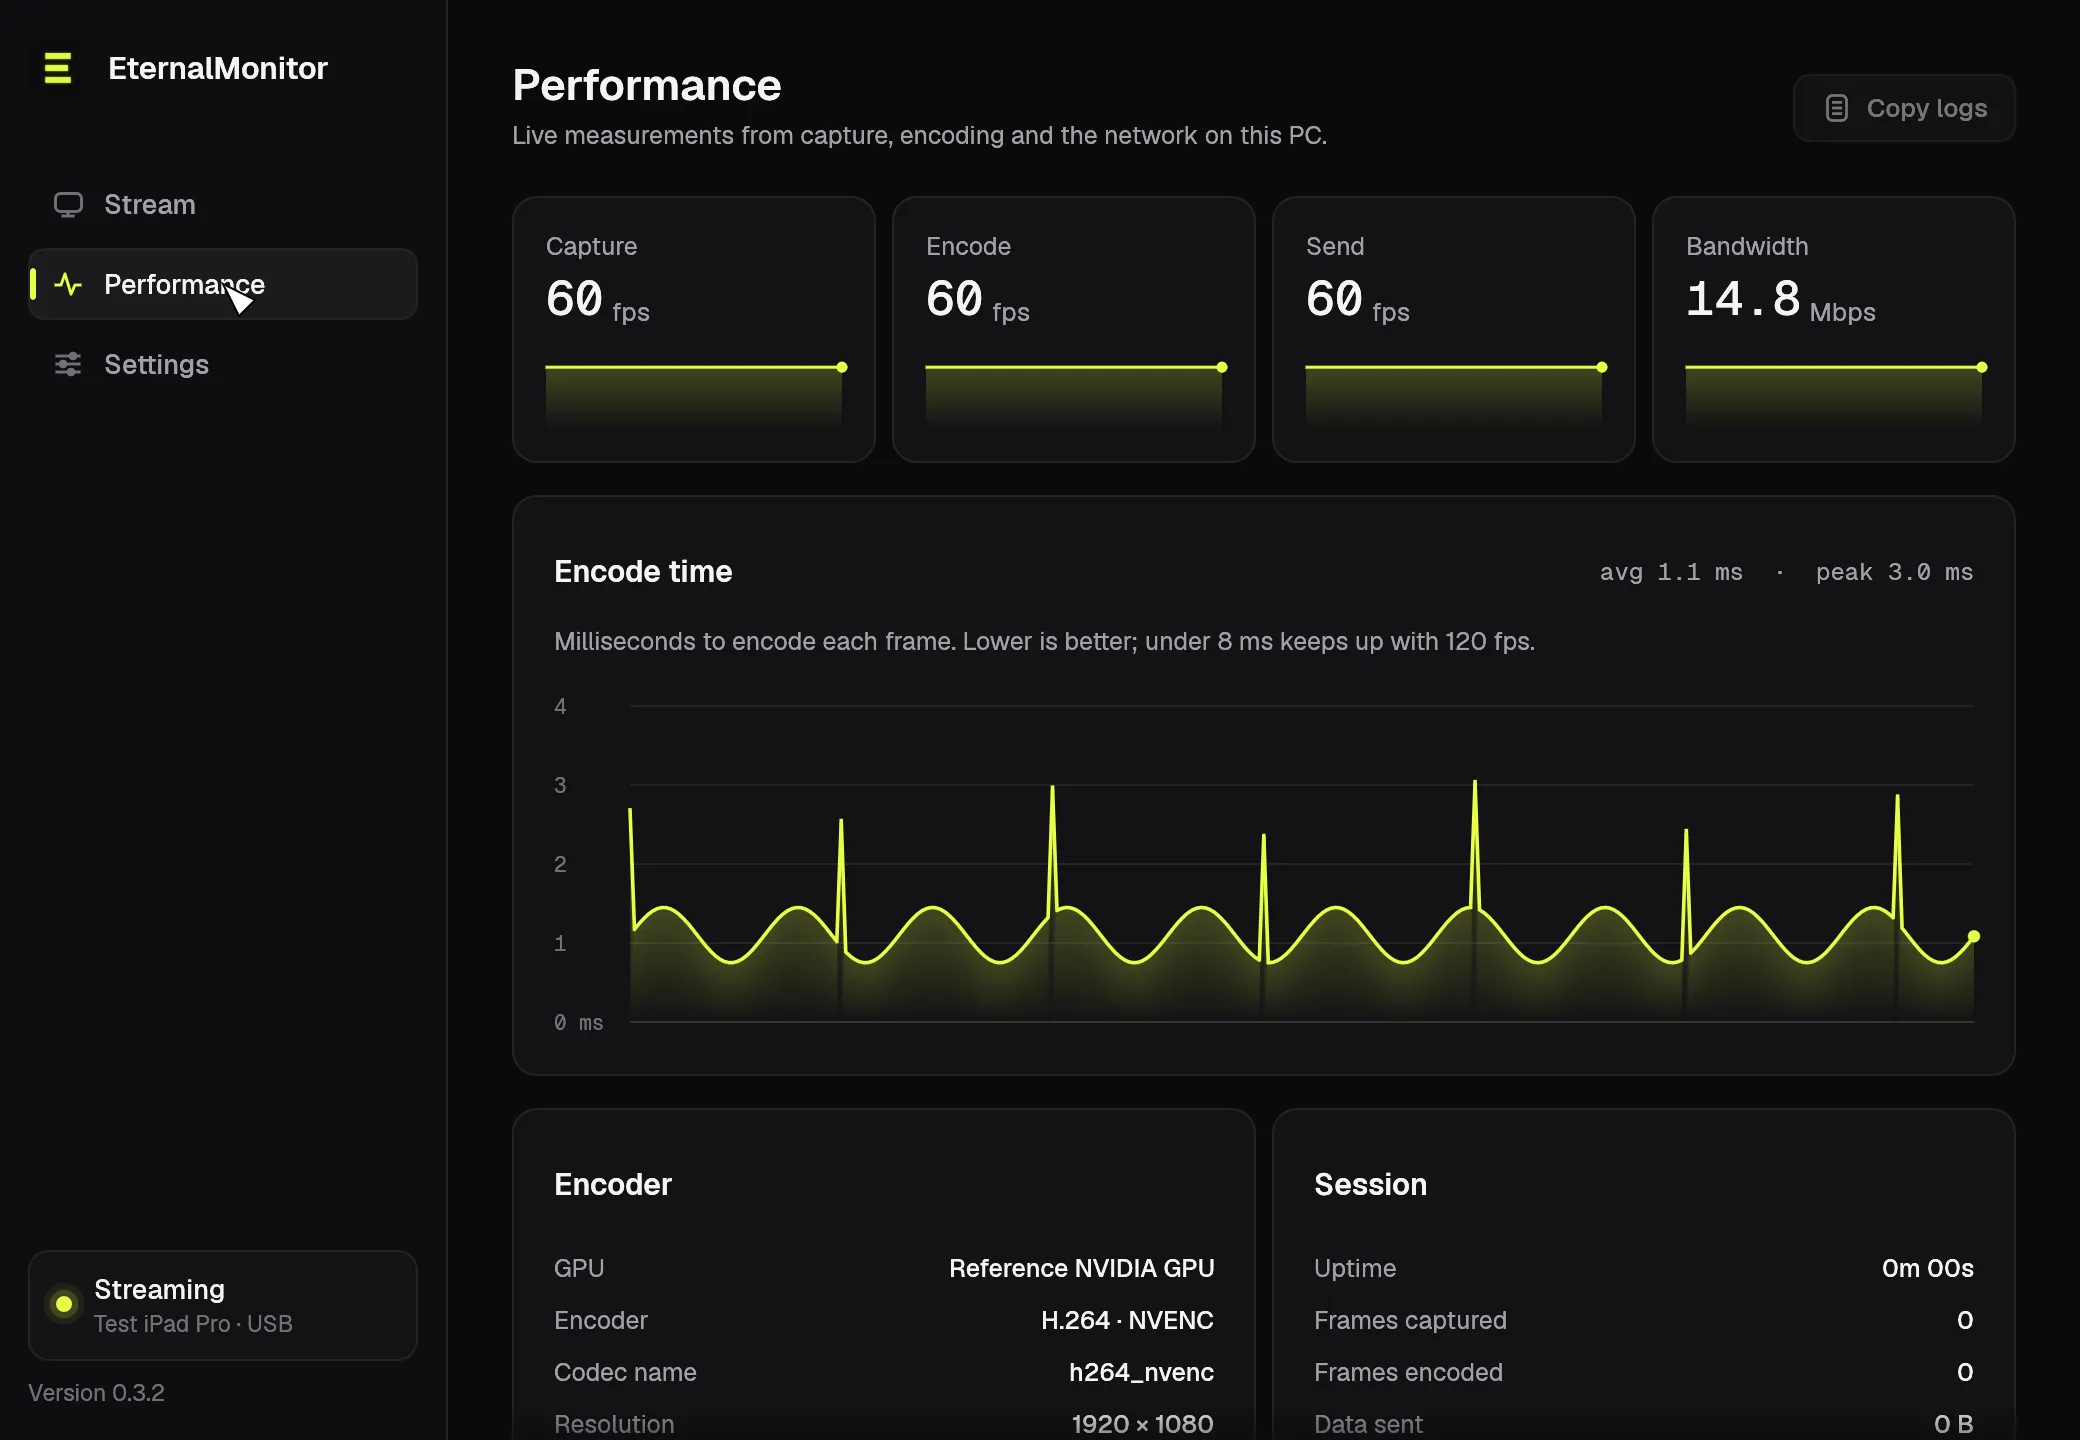
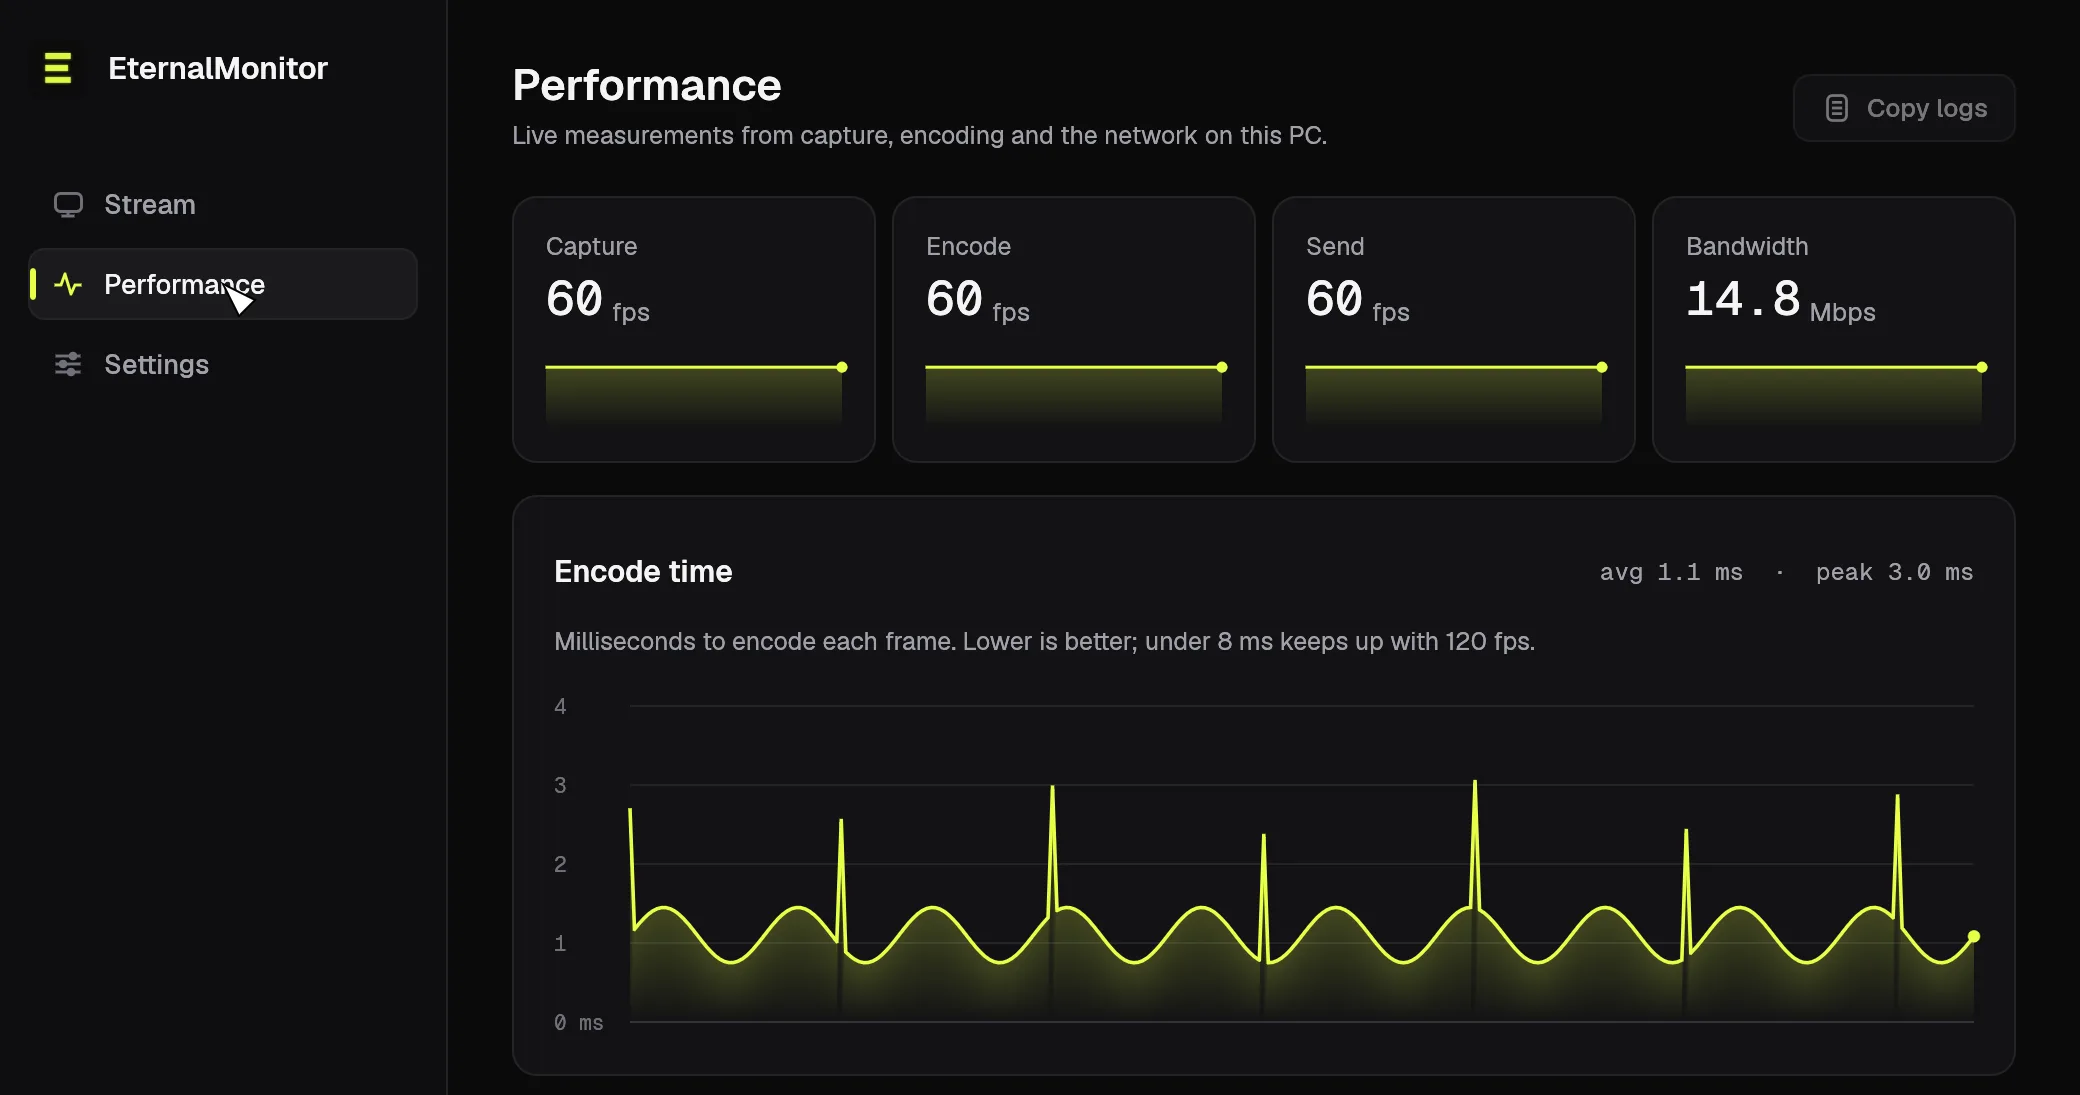
Crop the Windows screenshots to one consistent state
The test fixture behind the Windows renders has an iPad streaming over USB, which showed through: Second screen said Waiting for an iPad above a USB row saying an iPad is streaming, the QR dialog sat over a page already streaming with sample latency, and the Performance page's Session card counted zero frames under 60 fps. Second screen and Performance are cropped above those rows, and the QR dialog is shown on its own.

diff --git a/docs/index.html b/docs/index.html
@@ -128,7 +128,7 @@
                 <span class="t"><img src="assets/icon.png" alt="" width="14" height="14">EternalMonitor</span>
                 <span class="wc"><svg viewBox="0 0 10 10" stroke="currentColor" stroke-width="1"><path d="M1 5h8"/></svg><svg viewBox="0 0 10 10" fill="none" stroke="currentColor" stroke-width="1"><rect x="1.5" y="1.5" width="7" height="7"/></svg><svg viewBox="0 0 10 10" stroke="currentColor" stroke-width="1"><path d="M1.5 1.5l7 7M8.5 1.5l-7 7"/></svg></span>
               </div>
-              <img src="assets/host-second-screen.webp" srcset="assets/host-second-screen.webp 1200w, assets/host-second-screen@2x.webp 2080w" sizes="(max-width: 860px) 100vw, 540px" width="2080" height="1440" loading="lazy" decoding="async" alt="The Windows app's Stream page with Second screen selected under Use the iPad as. It says the iPad becomes an extra screen next to your main one as soon as it connects, and shows the PC's address and a six-digit pairing code.">
+              <img src="assets/host-second-screen.webp" srcset="assets/host-second-screen.webp 1040w, assets/host-second-screen@2x.webp 2080w" sizes="(max-width: 860px) 100vw, 540px" width="2080" height="1000" loading="lazy" decoding="async" alt="The Windows app's Stream page with Second screen selected under Use the iPad as. It says the iPad becomes an extra screen next to your main one as soon as it connects, and shows the PC's address and a six-digit pairing code.">
             </div>
             <p class="caption">The Windows app. The address and pairing code are examples.</p>
           </div>
@@ -156,12 +156,8 @@
           </div>
           <div class="feature-media">
             <div class="pair">
-              <div class="pc-window">
-                <div class="pc-titlebar" aria-hidden="true">
-                  <span class="t"><img src="assets/icon.png" alt="" width="14" height="14">EternalMonitor</span>
-                  <span class="wc"><svg viewBox="0 0 10 10" stroke="currentColor" stroke-width="1"><path d="M1 5h8"/></svg><svg viewBox="0 0 10 10" fill="none" stroke="currentColor" stroke-width="1"><rect x="1.5" y="1.5" width="7" height="7"/></svg><svg viewBox="0 0 10 10" stroke="currentColor" stroke-width="1"><path d="M1.5 1.5l7 7M8.5 1.5l-7 7"/></svg></span>
-                </div>
-                <img src="assets/host-qr.webp" srcset="assets/host-qr.webp 1200w, assets/host-qr@2x.webp 2080w" sizes="(max-width: 860px) 60vw, 330px" width="2080" height="1440" loading="lazy" decoding="async" alt="The Windows app's Scan to connect dialog, with a QR code and the PC's address under it.">
+              <div class="dialog-shot">
+                <img src="assets/host-qr.webp" srcset="assets/host-qr.webp 374w, assets/host-qr@2x.webp 748w" sizes="(max-width: 860px) 50vw, 280px" width="748" height="1050" loading="lazy" decoding="async" alt="The Windows app's Scan to connect dialog, with a QR code and the PC's address under it.">
               </div>
               <div class="tablet portrait">
                 <div class="screen">
@@ -183,7 +179,7 @@
                 <span class="t"><img src="assets/icon.png" alt="" width="14" height="14">EternalMonitor</span>
                 <span class="wc"><svg viewBox="0 0 10 10" stroke="currentColor" stroke-width="1"><path d="M1 5h8"/></svg><svg viewBox="0 0 10 10" fill="none" stroke="currentColor" stroke-width="1"><rect x="1.5" y="1.5" width="7" height="7"/></svg><svg viewBox="0 0 10 10" stroke="currentColor" stroke-width="1"><path d="M1.5 1.5l7 7M8.5 1.5l-7 7"/></svg></span>
               </div>
-              <img src="assets/host-performance.webp" srcset="assets/host-performance.webp 1200w, assets/host-performance@2x.webp 2080w" sizes="(max-width: 860px) 100vw, 540px" width="2080" height="1440" loading="lazy" decoding="async" alt="The Windows app's Performance page: capture, encode and send rates, bandwidth, and a chart of encode time per frame.">
+              <img src="assets/host-performance.webp" srcset="assets/host-performance.webp 1040w, assets/host-performance@2x.webp 2080w" sizes="(max-width: 860px) 100vw, 540px" width="2080" height="1095" loading="lazy" decoding="async" alt="The Windows app's Performance page: capture, encode and send rates, bandwidth, and a chart of encode time per frame.">
             </div>
             <p class="caption">The Windows app's Performance page, filled in with example numbers.</p>
           </div>

diff --git a/docs/style.css b/docs/style.css
@@ -454,9 +454,16 @@ small { font-size: 0.875rem; }
 
 .pair {
   display: grid;
-  grid-template-columns: 1.55fr 1fr;
+  grid-template-columns: 1fr 1fr;
   gap: 16px;
   align-items: end;
+/* A Windows dialog on its own: the crop follows its rounded edge. */
+.dialog-shot img {
+  width: 100%;
+  border-radius: 3.7% / 2.7%;
+  border: 1px solid var(--border-strong);
+  box-shadow: 0 24px 60px -24px rgba(0, 0, 0, 0.85);
+}
 }
 
 @media (max-width: 860px) {
